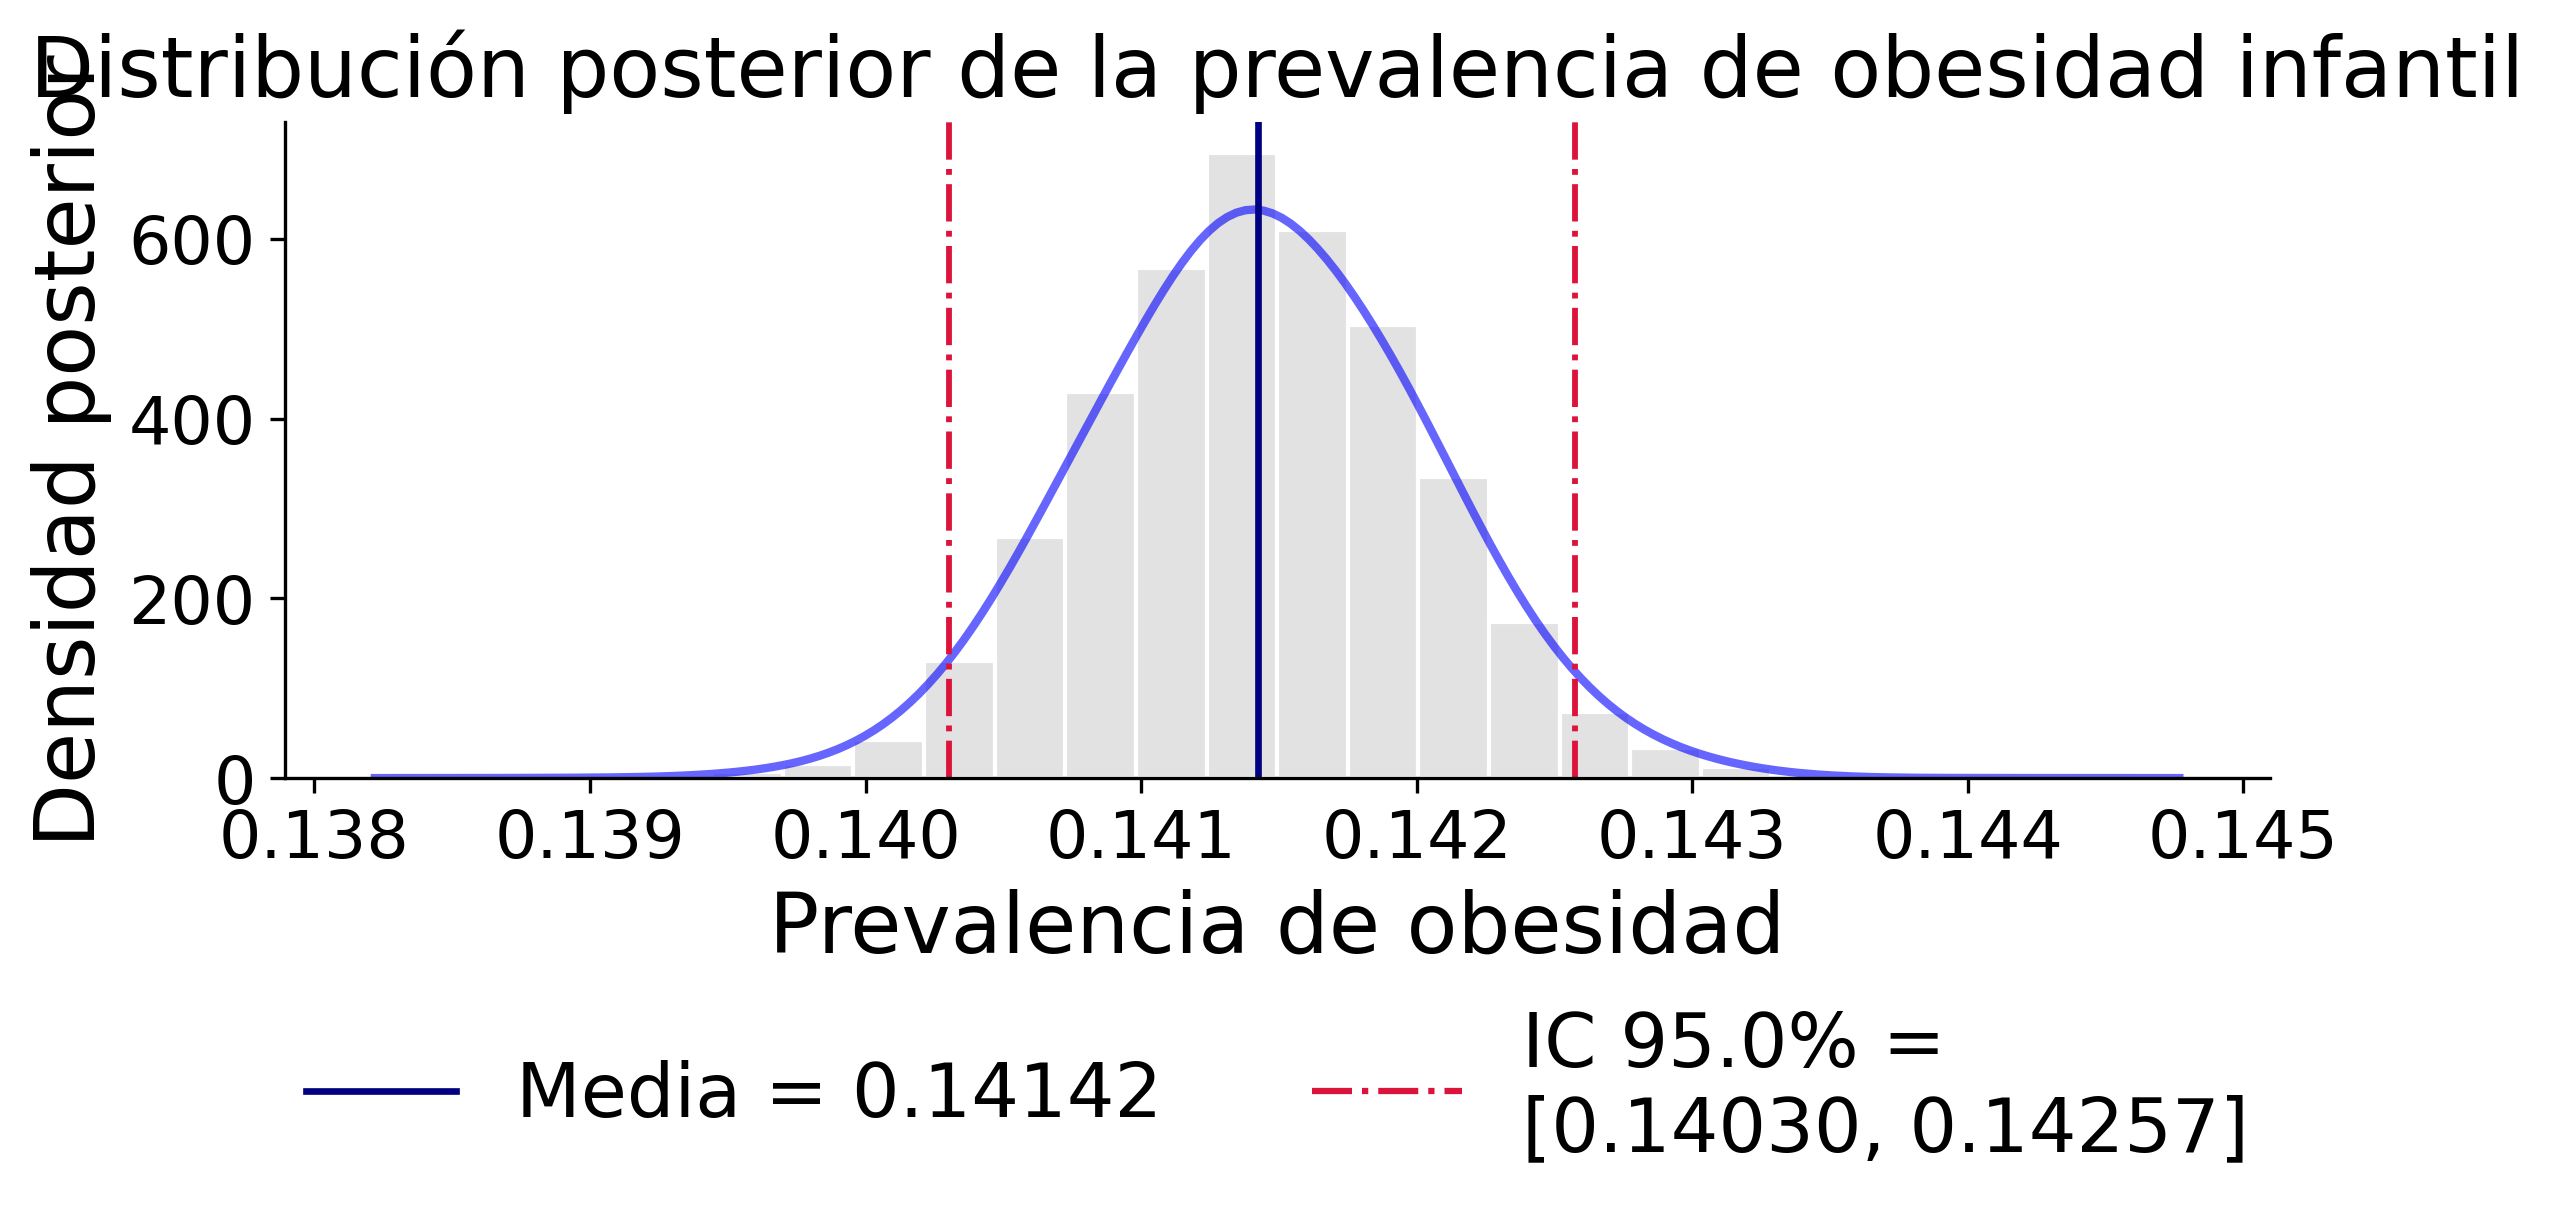
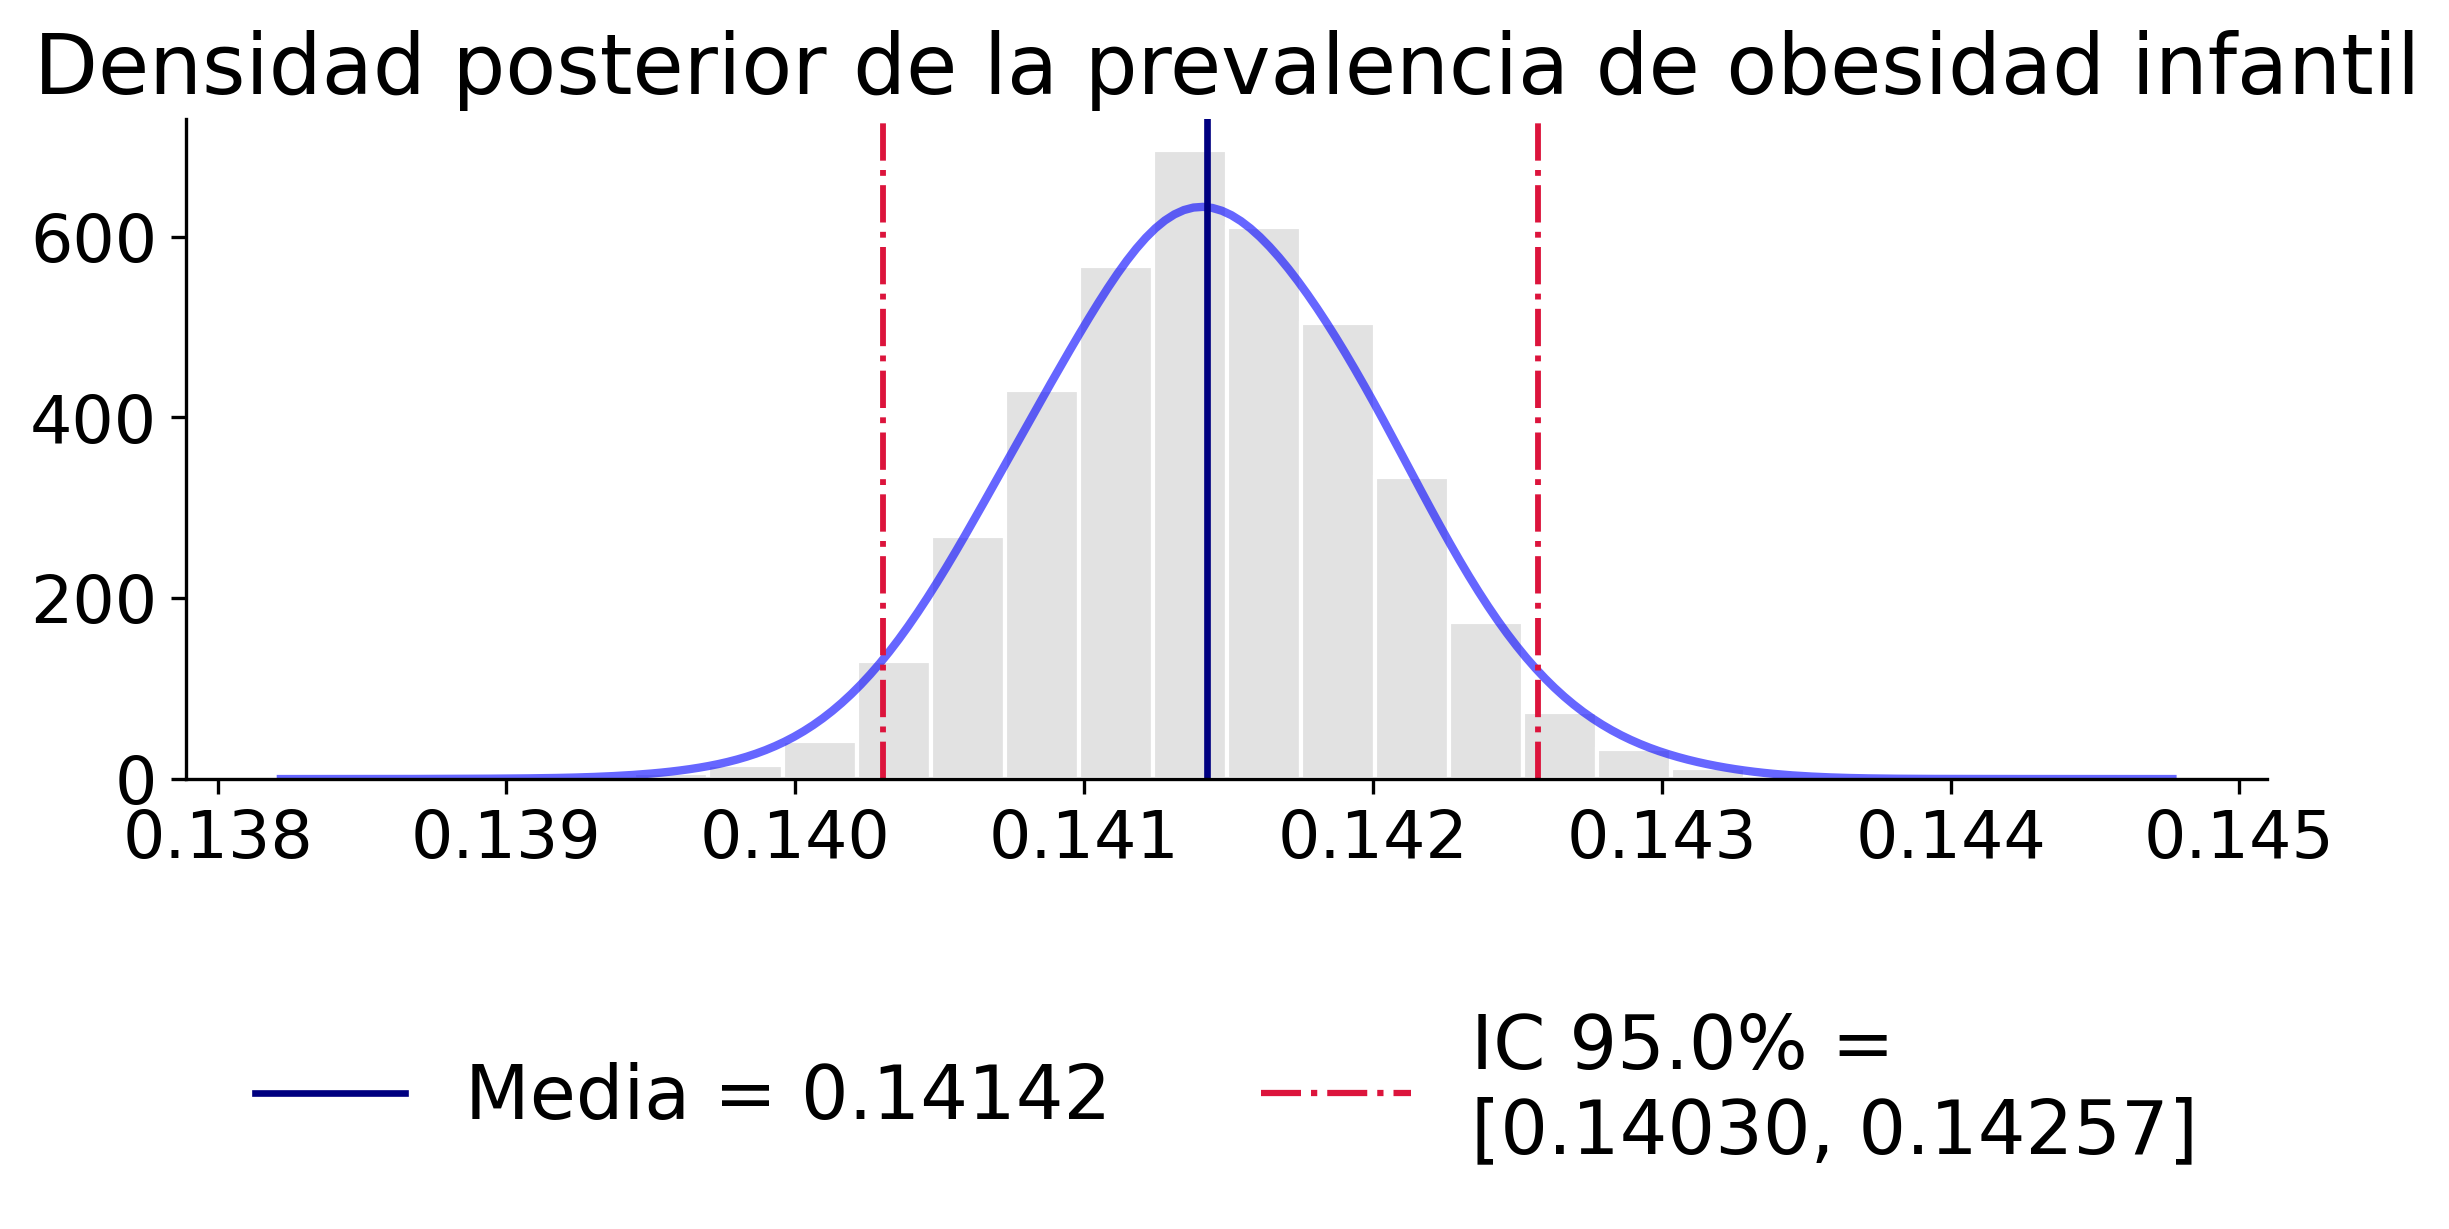
fix: ejes en histograma de análisis exploratorio

diff --git a/src/analysis/modelo.py b/src/analysis/modelo.py
@@ -180,10 +180,10 @@ def plot_distribucion_global(
     )
 
     # ejes y título
-    plt.xlabel(f"Prevalencia de {parametro}", fontsize=20)
-    plt.ylabel("Densidad posterior", fontsize=20)
+    plt.xlabel("")
+    plt.ylabel("")
     plt.title(
-        f"Distribución posterior de la prevalencia de {parametro} infantil", fontsize=20
+        f"Densidad posterior de la prevalencia de {parametro} infantil", fontsize=20
     )
 
     plt.tick_params(axis="both", labelsize=16)
